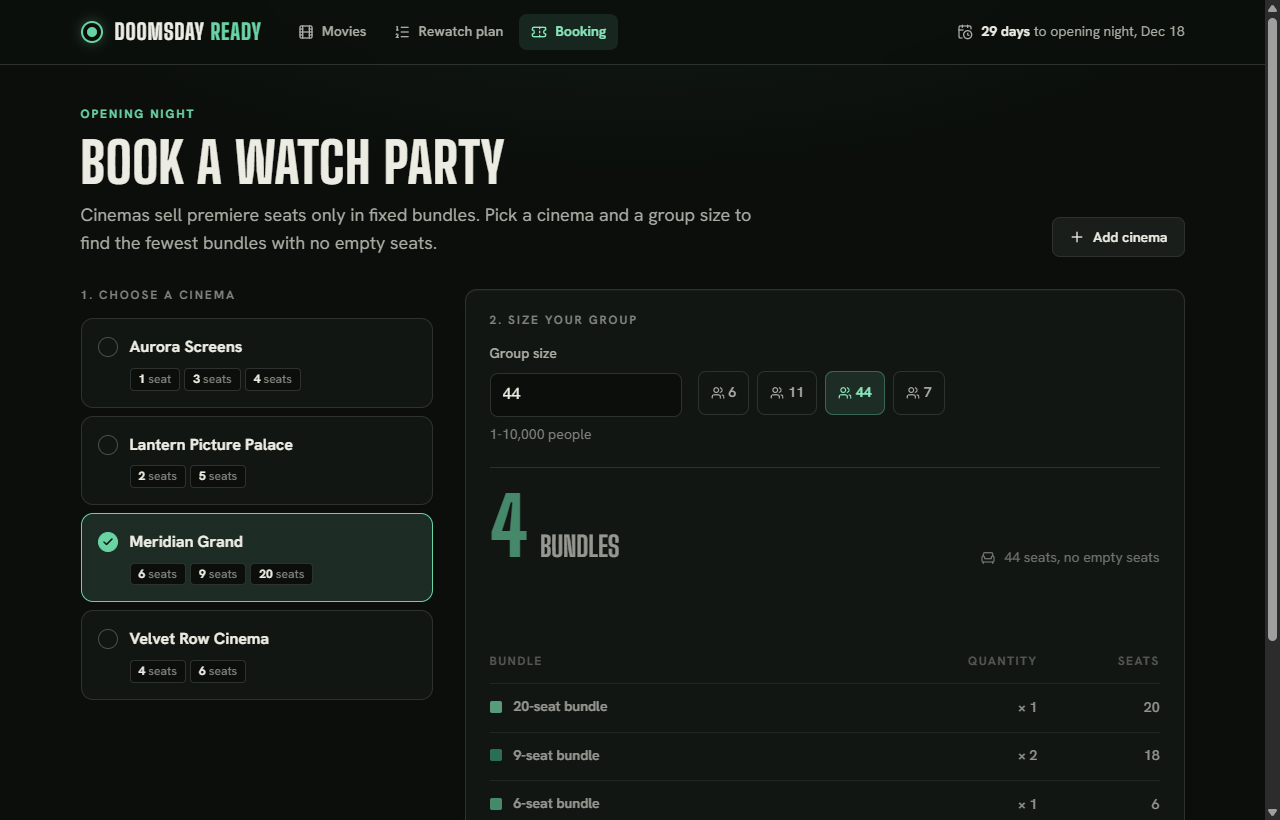
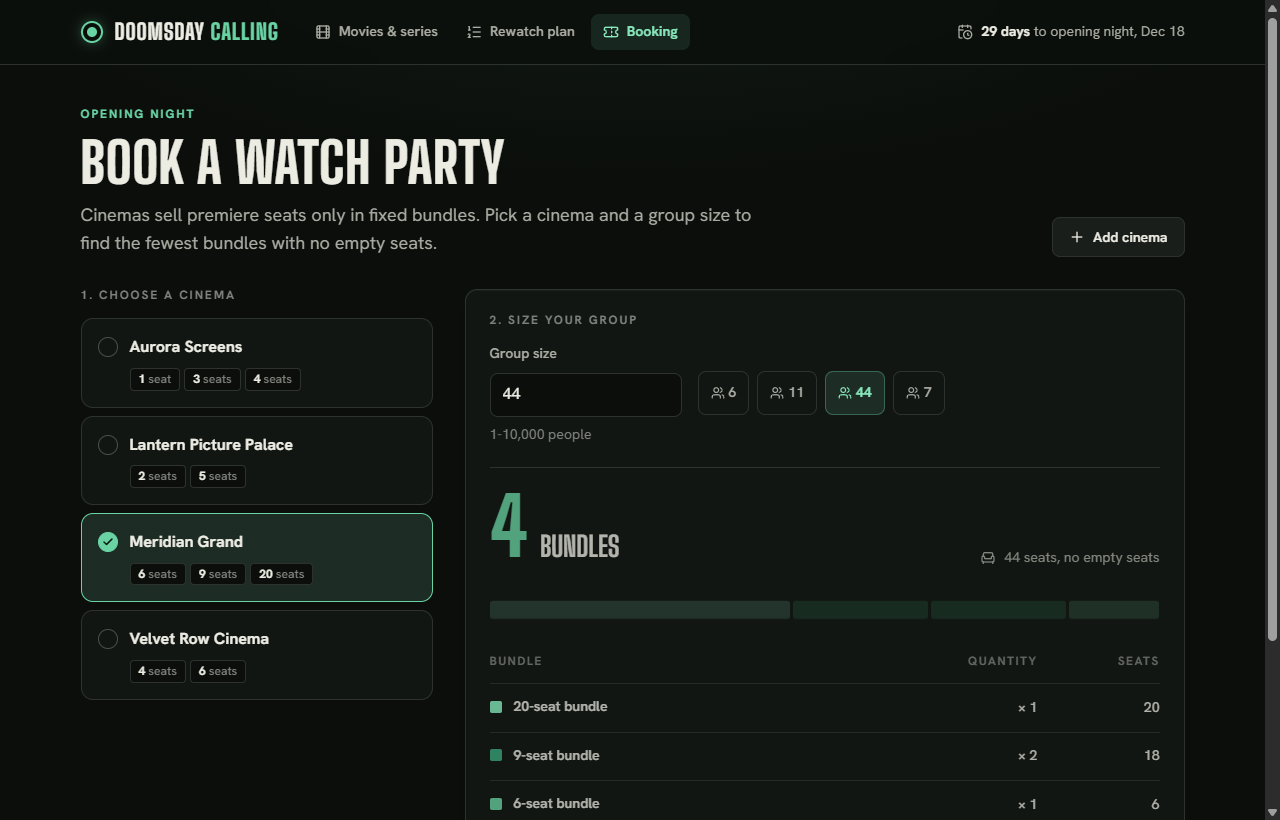
docs: document series support and refresh screenshots

diff --git a/README.md b/README.md
@@ -1,12 +1,12 @@
 # Doomsday Calling
 
-Plan your MCU rewatch before **Avengers: Doomsday**, then book an opening-night watch party.
+Plan your MCU rewatch (movies **and** series) before **Avengers: Doomsday**, then book an opening-night watch party.
 
 A full-stack TypeScript app built for the Blinto Talent Accelerator 2027 full-stack internship assessment. It has a React client, an Express API and PostgreSQL. Both core algorithms (dependency ordering with cycle detection, and minimum-bundle booking) are hand-written with no graph or optimisation libraries.
 
 ![Rewatch plan](docs/screenshots/rewatch-plan.png)
 
-| Movies                                 | Booking                                  | Circular dependency                                                  |
+| Movies & series                        | Booking                                  | Circular dependency                                                  |
 | -------------------------------------- | ---------------------------------------- | -------------------------------------------------------------------- |
 | ![Movies](docs/screenshots/movies.png) | ![Booking](docs/screenshots/booking.png) | ![409 CIRCULAR_DEPENDENCY](docs/screenshots/circular-dependency.png) |
 
@@ -71,6 +71,7 @@ The app is fully functional without it. To enable movie search, posters and runt
 ### 1. Movies and rewatch order
 
 - Create, list, update and delete movies: title (unique), release year, runtime (1–300 min), prerequisites, watched.
+- **Series too.** A title can be a `movie` or a `series` (WandaVision, Loki). Both live in the same catalogue and prerequisite graph, so a movie can require a series and the other way round. For a series, `runtimeMinutes` is the episode length, and its watch time is episodes × runtime.
 - Any change that would make a movie depend on itself, directly or through other movies, is rejected with **`409 CIRCULAR_DEPENDENCY`**. The response includes the loop (`Iron Man → Avengers: Endgame → … → Iron Man`), and the UI draws it.
 - `GET /api/movies/:id/rewatch-order` returns every movie to watch first, each once and after its own prerequisites. It also returns the watched count and the remaining runtime.
 
@@ -81,11 +82,11 @@ The app is fully functional without it. To enable movie search, posters and runt
 
 ### 3. Frontend (React)
 
-| View             | What you can do                                                                                                                                     |
-| ---------------- | --------------------------------------------------------------------------------------------------------------------------------------------------- |
-| **Movies**       | Add, edit and delete movies; pick prerequisites from a searchable list; tick watched; search and filter                                             |
-| **Rewatch plan** | Pick a target and see the ordered list with ticks, an "X of Y watched" progress bar and remaining time. The target is in the URL (`/plan?target=8`) |
-| **Booking**      | Pick a cinema and a group size; see the bundles (with a seat strip) or "Not possible". Shareable via `/booking?cinema=3&group=44`                   |
+| View                | What you can do                                                                                                                                     |
+| ------------------- | --------------------------------------------------------------------------------------------------------------------------------------------------- |
+| **Movies & series** | Add, edit and delete movies and series; pick prerequisites from a searchable list; tick watched; search and filter by type and status               |
+| **Rewatch plan**    | Pick a target and see the ordered list with ticks, an "X of Y watched" progress bar and remaining time. The target is in the URL (`/plan?target=8`) |
+| **Booking**         | Pick a cinema and a group size; see the bundles (with a seat strip) or "Not possible". Shareable via `/booking?cinema=3&group=44`                   |
 
 Ticking watched updates the list, progress bar and remaining time instantly (optimistic update with rollback). Each view has loading, empty and error states. The UI is keyboard and screen-reader friendly, and responsive down to phone widths.
 
@@ -208,9 +209,11 @@ erDiagram
 
     MOVIES {
         int id PK
+        text kind "movie or series"
         text title UK "unique, case-insensitive"
         int release_year "1888-2100"
-        int runtime_minutes "1-300"
+        int runtime_minutes "1-300, per episode for series"
+        int episode_count "1-500, always 1 for movies"
         boolean watched "default false"
         int tmdb_id "optional"
         text poster_path "optional, TMDb file path"
@@ -238,6 +241,7 @@ erDiagram
 
 - **`movie_prerequisites`** is a self-referencing many-to-many join table. A `CHECK (movie_id <> prerequisite_id)` blocks direct self-dependency in the database. Indirect cycles are blocked by the API before anything is written.
 - **`cinema_bundle_sizes`** has one row per size. Its composite primary key keeps sizes distinct. The 1–10 sizes per cinema rule is enforced by the API.
+- **`movies`** holds both movies and series (`kind`). A `CHECK` keeps movies at exactly one episode. Keeping one table means series and movies share one prerequisite graph.
 - Deleting a movie or cinema cascades to its rows in the join tables.
 - Migrations are plain SQL in [`server/migrations`](server/migrations), applied by a small forward-only runner.
 
@@ -246,7 +250,7 @@ erDiagram
 ```
 .
 ├── server/                    Express 5 + TypeScript API
-│   ├── migrations/            001_create_movies.sql, 002_create_cinemas.sql, 003_…
+│   ├── migrations/            001_create_movies.sql … 004_add_series_support.sql
 │   ├── src/
 │   │   ├── modules/
 │   │   │   ├── movies/        dependency-graph.ts (algorithms), schemas, repository, service, routes
@@ -276,13 +280,13 @@ erDiagram
 
 ## Testing
 
-**170 tests**, all run in CI on every pull request against a real Postgres service container.
+**190 tests**, all run in CI on every pull request against a real Postgres service container.
 
 | Suite              | Count | Covers                                                                                                                                                                         |
 | ------------------ | ----- | ------------------------------------------------------------------------------------------------------------------------------------------------------------------------------ |
 | Server unit        | 41    | Cycle detection, rewatch order (including brief examples, random graphs, 50k chains), booking DP (brief examples, greedy counterexample, brute-force cross-check), TMDb client |
-| Server integration | 66    | Every endpoint through HTTP against Postgres: validation, uniqueness, the brief's expected results, rollback of rejected updates                                               |
-| Client             | 63    | API error mapping, form validation, optimistic plan updates, timeline, quote rendering, accessibility attributes                                                               |
+| Server integration | 79    | Every endpoint through HTTP against Postgres: validation, uniqueness, the brief's expected results, rollback of rejected updates, series and mixed movie/series plans          |
+| Client             | 70    | API error mapping, form validation, optimistic plan updates, timeline, quote rendering, accessibility attributes                                                               |
 
 ```bash
 npm test                          # everything (integration tests need Postgres: npm run db:up)
@@ -305,6 +309,12 @@ The brief asks for unclear points to be decided and noted. These are mine:
 - On **create**, a cycle is impossible, because nothing can reference a movie before it exists. The check still runs, so every write path enforces the same rule.
 - A rejected `PATCH` changes **nothing**, including other fields in the same request.
 - Deleting a movie removes it from other movies' prerequisite lists.
+
+**Series**
+
+- The brief only describes movies. I added series because the MCU story runs through them too. To keep the brief's API intact, they reuse `/api/movies` with a `kind` field that defaults to `movie`, so every request from the brief behaves exactly as specified.
+- For a series, the 1–300 runtime rule applies to the episode length, and `episodeCount` (1–500) holds the number of episodes. Remaining watch time counts every episode.
+- The sample series (WandaVision, Loki) and Doctor Strange in the Multiverse of Madness all come after Avengers: Endgame, so the brief's expected results (for example 7 titles before Avengers: Doomsday) are unchanged. TMDb autofill is offered for movies only.
 
 **Rewatch order**
 
@@ -332,5 +342,5 @@ The brief allows AI tools if their use is disclosed. I built this project with *
 
 - **Direction and decisions were mine:** PostgreSQL as the database, TMDb as an optional (not required) integration, the visual direction, and a professional workflow of one branch and pull request per feature with CI on every PR.
 - **The AI wrote most of the code:** the two algorithms, the API, the React views, the tests and this README. It explained each algorithm and decision as it went, and asked before major choices.
-- **Verification did not rely on trusting the AI.** Every example from the brief is an automated test, CI runs all 170 tests against a real database, and each view was exercised in a real browser against the real API. When a generated test turned out to prove nothing (a concurrency test that also passed with the lock removed), it was deleted rather than kept as false evidence.
+- **Verification did not rely on trusting the AI.** Every example from the brief is an automated test, CI runs all 190 tests against a real database, and each view was exercised in a real browser against the real API. When a generated test turned out to prove nothing (a concurrency test that also passed with the lock removed), it was deleted rather than kept as false evidence.
 - No library solves features 1 or 2. The graph traversal and the dynamic programming are plain TypeScript in the two files linked above.
